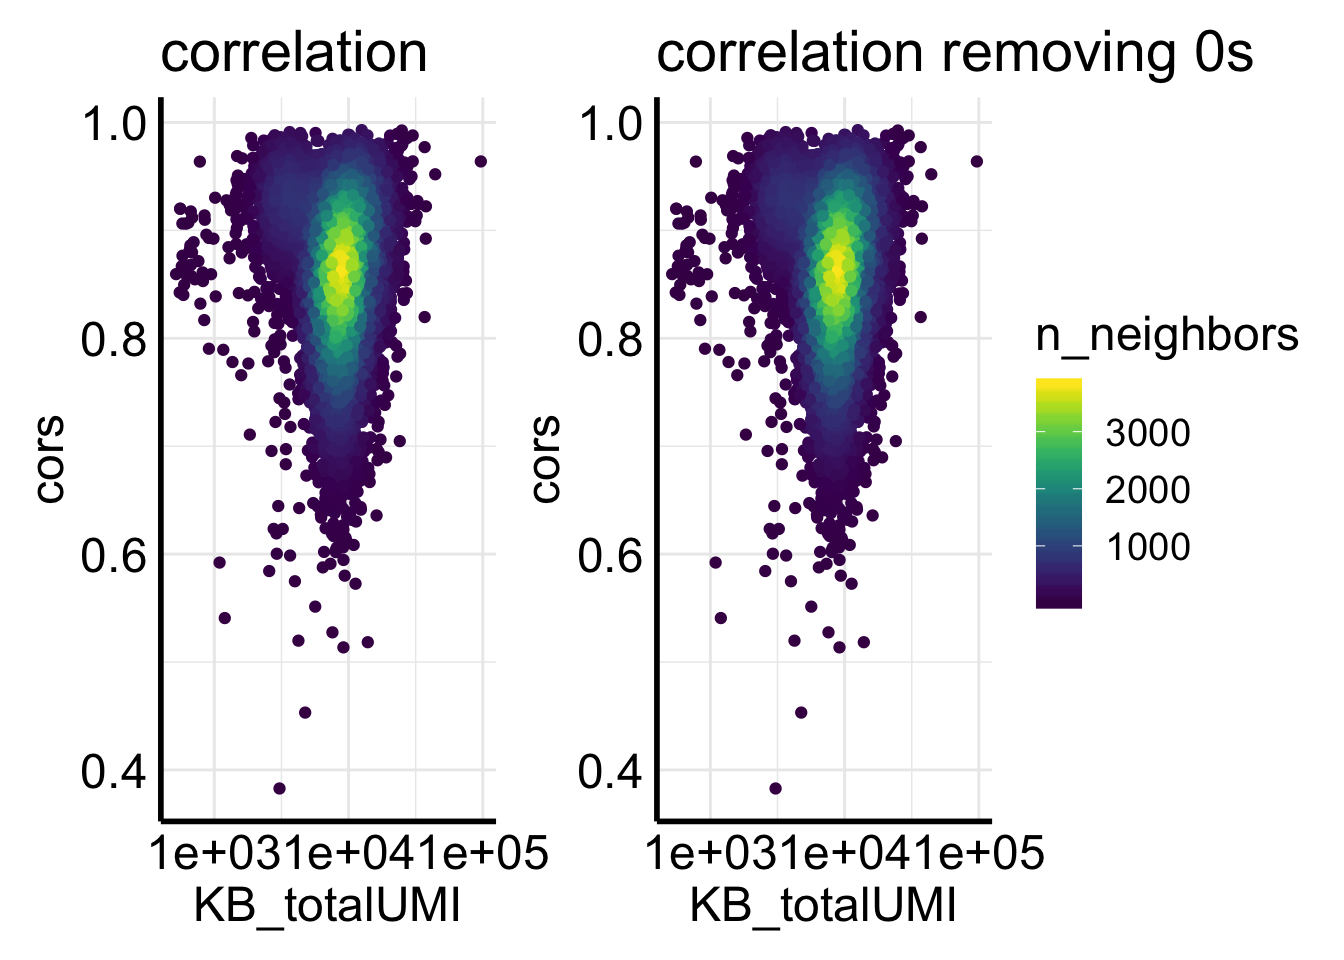
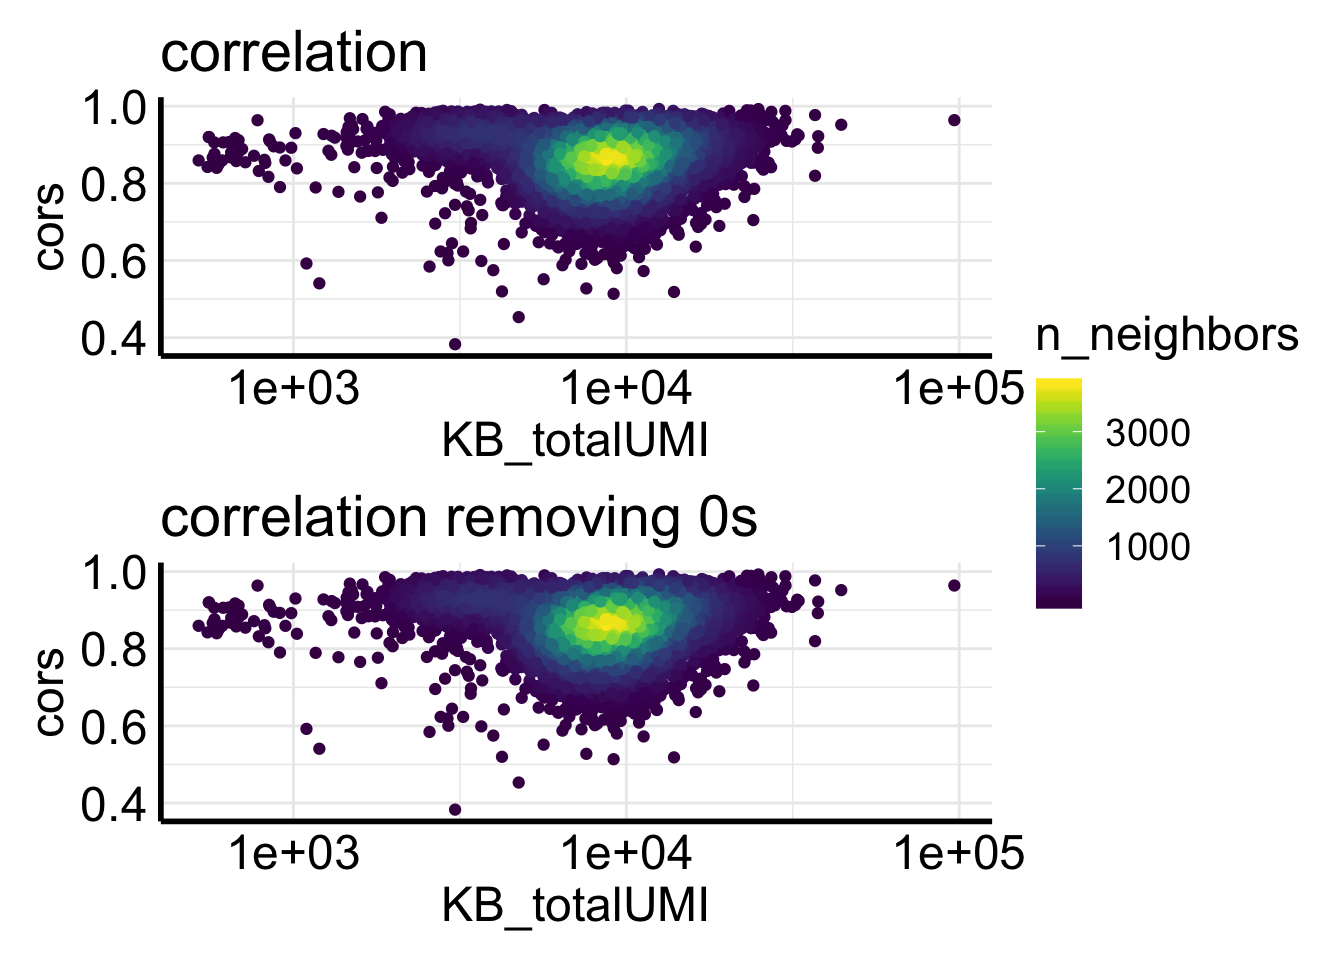
update post

diff --git a/public/post/compare-kallisto-bustools-and-cellranger-for-single-nuclei-seqencing-data/index.html b/public/post/compare-kallisto-bustools-and-cellranger-for-single-nuclei-seqencing-data/index.html
@@ -95,7 +95,7 @@ My next thought is: maybe the STAR aligner is doing something weird that exclude
   
   <meta property="og:site_name" content="DNA confesses Data speak">
   <meta property="og:url" content="/post/compare-kallisto-bustools-and-cellranger-for-single-nuclei-seqencing-data/">
-  <meta property="og:title" content="compare kallisto-bustools and cellranger for single nuclei seqencing data | DNA confesses Data speak">
+  <meta property="og:title" content="compare kallisto-bustools and cellranger for single nuclei sequencing data | DNA confesses Data speak">
   <meta property="og:description" content="In my last post, I tried to include transgenes to the cellranger reference and want to get the counts for the transgenes. However, even after I extended the Tdtomato and Cre with the potential 3’UTR, I still get very few cells express them. This is confusing to me.
 My next thought is: maybe the STAR aligner is doing something weird that excluded those reads? At this point, I want to give kb-python, a python wrapper on kallisto and bustools a try.">
   <meta property="og:locale" content="en-us">
@@ -108,7 +108,7 @@ My next thought is: maybe the STAR aligner is doing something weird that exclude
   
   
 
-  <title>compare kallisto-bustools and cellranger for single nuclei seqencing data | DNA confesses Data speak</title>
+  <title>compare kallisto-bustools and cellranger for single nuclei sequencing data | DNA confesses Data speak</title>
 
 </head>
 <body id="top" data-spy="scroll" data-target="#toc" data-offset="71" >
@@ -284,7 +284,7 @@ My next thought is: maybe the STAR aligner is doing something weird that exclude
 
 
   <div class="article-container">
-    <h1 itemprop="name">compare kallisto-bustools and cellranger for single nuclei seqencing data</h1>
+    <h1 itemprop="name">compare kallisto-bustools and cellranger for single nuclei sequencing data</h1>
 
     
 
@@ -339,7 +339,7 @@ My next thought is: maybe the STAR aligner is doing something weird that exclude
   <ul class="share">
     <li>
       <a class="twitter"
-         href="https://twitter.com/intent/tweet?text=compare%20kallisto-bustools%20and%20cellranger%20for%20single%20nuclei%20seqencing%20data&amp;url=%2fpost%2fcompare-kallisto-bustools-and-cellranger-for-single-nuclei-seqencing-data%2f"
+         href="https://twitter.com/intent/tweet?text=compare%20kallisto-bustools%20and%20cellranger%20for%20single%20nuclei%20sequencing%20data&amp;url=%2fpost%2fcompare-kallisto-bustools-and-cellranger-for-single-nuclei-seqencing-data%2f"
          target="_blank" rel="noopener">
         <i class="fa fa-twitter"></i>
       </a>
@@ -353,21 +353,21 @@ My next thought is: maybe the STAR aligner is doing something weird that exclude
     </li>
     <li>
       <a class="linkedin"
-         href="https://www.linkedin.com/shareArticle?mini=true&amp;url=%2fpost%2fcompare-kallisto-bustools-and-cellranger-for-single-nuclei-seqencing-data%2f&amp;title=compare%20kallisto-bustools%20and%20cellranger%20for%20single%20nuclei%20seqencing%20data"
+         href="https://www.linkedin.com/shareArticle?mini=true&amp;url=%2fpost%2fcompare-kallisto-bustools-and-cellranger-for-single-nuclei-seqencing-data%2f&amp;title=compare%20kallisto-bustools%20and%20cellranger%20for%20single%20nuclei%20sequencing%20data"
          target="_blank" rel="noopener">
         <i class="fa fa-linkedin"></i>
       </a>
     </li>
     <li>
       <a class="weibo"
-         href="http://service.weibo.com/share/share.php?url=%2fpost%2fcompare-kallisto-bustools-and-cellranger-for-single-nuclei-seqencing-data%2f&amp;title=compare%20kallisto-bustools%20and%20cellranger%20for%20single%20nuclei%20seqencing%20data"
+         href="http://service.weibo.com/share/share.php?url=%2fpost%2fcompare-kallisto-bustools-and-cellranger-for-single-nuclei-seqencing-data%2f&amp;title=compare%20kallisto-bustools%20and%20cellranger%20for%20single%20nuclei%20sequencing%20data"
          target="_blank" rel="noopener">
         <i class="fa fa-weibo"></i>
       </a>
     </li>
     <li>
       <a class="email"
-         href="mailto:?subject=compare%20kallisto-bustools%20and%20cellranger%20for%20single%20nuclei%20seqencing%20data&amp;body=%2fpost%2fcompare-kallisto-bustools-and-cellranger-for-single-nuclei-seqencing-data%2f">
+         href="mailto:?subject=compare%20kallisto-bustools%20and%20cellranger%20for%20single%20nuclei%20sequencing%20data&amp;body=%2fpost%2fcompare-kallisto-bustools-and-cellranger-for-single-nuclei-seqencing-data%2f">
         <i class="fa fa-envelope"></i>
       </a>
     </li>
@@ -774,7 +774,7 @@ p2&lt;- ggplot(df2, aes(x= KB_totalUMI, y = cors)) +
 #install.packages(&quot;patchwork&quot;)
 # use patchwork to combine the legends from multiple plots
 library(patchwork)
-p1 + p2 + plot_layout(guides = &quot;collect&quot;)</code></pre>
+p1 / p2 + plot_layout(guides = &quot;collect&quot;)</code></pre>
 <p><img src="/post/2020-02-21-compare-kallisto-bustools-and-cellranger-for-single-nuclei-seqencing-data_files/figure-html/unnamed-chunk-17-1.png" width="672" /></p>
 <p>I have not seen many posts comparing cellranger with <code>kallisto + bustools</code> for single nuclei data. I hope this post opens the discussion for the single-cell RNAseq community.</p>
 <ul>

diff --git a/content/post/2020-02-21-compare-kallisto-bustools-and-cellranger-for-single-nuclei-seqencing-data.html b/content/post/2020-02-21-compare-kallisto-bustools-and-cellranger-for-single-nuclei-seqencing-data.html
@@ -1,5 +1,5 @@
 ---
-title: compare kallisto-bustools and cellranger for single nuclei seqencing data
+title: compare kallisto-bustools and cellranger for single nuclei sequencing data
 author: Ming Tang
 date: '2020-02-21'
 slug: compare-kallisto-bustools-and-cellranger-for-single-nuclei-seqencing-data
@@ -409,7 +409,7 @@ p2&lt;- ggplot(df2, aes(x= KB_totalUMI, y = cors)) +
 #install.packages(&quot;patchwork&quot;)
 # use patchwork to combine the legends from multiple plots
 library(patchwork)
-p1 + p2 + plot_layout(guides = &quot;collect&quot;)</code></pre>
+p1 / p2 + plot_layout(guides = &quot;collect&quot;)</code></pre>
 <p><img src="/post/2020-02-21-compare-kallisto-bustools-and-cellranger-for-single-nuclei-seqencing-data_files/figure-html/unnamed-chunk-17-1.png" width="672" /></p>
 <p>I have not seen many posts comparing cellranger with <code>kallisto + bustools</code> for single nuclei data. I hope this post opens the discussion for the single-cell RNAseq community.</p>
 <ul>

diff --git a/public/categories/bioinformatics/index.html b/public/categories/bioinformatics/index.html
@@ -284,7 +284,7 @@
   
   
   <div>
-    <h2><a href="/post/compare-kallisto-bustools-and-cellranger-for-single-nuclei-seqencing-data/">compare kallisto-bustools and cellranger for single nuclei seqencing data</a></h2>
+    <h2><a href="/post/compare-kallisto-bustools-and-cellranger-for-single-nuclei-seqencing-data/">compare kallisto-bustools and cellranger for single nuclei sequencing data</a></h2>
     <div class="article-style">
       
       In my last post, I tried to include transgenes to the cellranger reference and want to get the counts for the transgenes. However, even after I extended the Tdtomato and Cre with the potential 3’UTR, I still get very few cells express them. This is confusing to me.

diff --git a/public/categories/r/index.html b/public/categories/r/index.html
@@ -284,7 +284,7 @@
   
   
   <div>
-    <h2><a href="/post/compare-kallisto-bustools-and-cellranger-for-single-nuclei-seqencing-data/">compare kallisto-bustools and cellranger for single nuclei seqencing data</a></h2>
+    <h2><a href="/post/compare-kallisto-bustools-and-cellranger-for-single-nuclei-seqencing-data/">compare kallisto-bustools and cellranger for single nuclei sequencing data</a></h2>
     <div class="article-style">
       
       In my last post, I tried to include transgenes to the cellranger reference and want to get the counts for the transgenes. However, even after I extended the Tdtomato and Cre with the potential 3’UTR, I still get very few cells express them. This is confusing to me.

diff --git a/public/categories/scrnaseq/index.html b/public/categories/scrnaseq/index.html
@@ -284,7 +284,7 @@
   
   
   <div>
-    <h2><a href="/post/compare-kallisto-bustools-and-cellranger-for-single-nuclei-seqencing-data/">compare kallisto-bustools and cellranger for single nuclei seqencing data</a></h2>
+    <h2><a href="/post/compare-kallisto-bustools-and-cellranger-for-single-nuclei-seqencing-data/">compare kallisto-bustools and cellranger for single nuclei sequencing data</a></h2>
     <div class="article-style">
       
       In my last post, I tried to include transgenes to the cellranger reference and want to get the counts for the transgenes. However, even after I extended the Tdtomato and Cre with the potential 3’UTR, I still get very few cells express them. This is confusing to me.

diff --git a/public/tags/scrnaseq/index.html b/public/tags/scrnaseq/index.html
@@ -284,7 +284,7 @@
   
   
   <div>
-    <h2><a href="/post/compare-kallisto-bustools-and-cellranger-for-single-nuclei-seqencing-data/">compare kallisto-bustools and cellranger for single nuclei seqencing data</a></h2>
+    <h2><a href="/post/compare-kallisto-bustools-and-cellranger-for-single-nuclei-seqencing-data/">compare kallisto-bustools and cellranger for single nuclei sequencing data</a></h2>
     <div class="article-style">
       
       In my last post, I tried to include transgenes to the cellranger reference and want to get the counts for the transgenes. However, even after I extended the Tdtomato and Cre with the potential 3’UTR, I still get very few cells express them. This is confusing to me.

diff --git a/public/index.html b/public/index.html
@@ -1436,7 +1436,7 @@
 
 <div class="pub-list-item" itemscope itemprop="blogPost" itemtype="http://schema.org/BlogPosting">
   <i class="fa fa-newspaper-o pub-icon" aria-hidden="true"></i>
-  <a href="/post/compare-kallisto-bustools-and-cellranger-for-single-nuclei-seqencing-data/" itemprop="url"><span itemprop="headline">compare kallisto-bustools and cellranger for single nuclei seqencing data</span></a>
+  <a href="/post/compare-kallisto-bustools-and-cellranger-for-single-nuclei-seqencing-data/" itemprop="url"><span itemprop="headline">compare kallisto-bustools and cellranger for single nuclei sequencing data</span></a>
 </div>
 
         

diff --git a/public/post/index.html b/public/post/index.html
@@ -280,7 +280,7 @@
 
 <div class="pub-list-item" itemscope itemprop="blogPost" itemtype="http://schema.org/BlogPosting">
   <i class="fa fa-newspaper-o pub-icon" aria-hidden="true"></i>
-  <a href="/post/compare-kallisto-bustools-and-cellranger-for-single-nuclei-seqencing-data/" itemprop="url"><span itemprop="headline">compare kallisto-bustools and cellranger for single nuclei seqencing data</span></a>
+  <a href="/post/compare-kallisto-bustools-and-cellranger-for-single-nuclei-seqencing-data/" itemprop="url"><span itemprop="headline">compare kallisto-bustools and cellranger for single nuclei sequencing data</span></a>
 </div>
 
     

diff --git a/public/post/cellranger-mk-reference-with-transgenes/index.html b/public/post/cellranger-mk-reference-with-transgenes/index.html
@@ -577,7 +577,7 @@ FALSE  TRUE
   
   <div class="post-nav-item">
     <div class="meta-nav">Next</div>
-    <a href="/post/compare-kallisto-bustools-and-cellranger-for-single-nuclei-seqencing-data/" rel="next">compare kallisto-bustools and cellranger for single nuclei seqencing data</a>
+    <a href="/post/compare-kallisto-bustools-and-cellranger-for-single-nuclei-seqencing-data/" rel="next">compare kallisto-bustools and cellranger for single nuclei sequencing data</a>
   </div>
   
   

diff --git a/public/404.html b/public/404.html
@@ -279,7 +279,7 @@
   <h2>Posts</h2>
   
   <ul>
-    <li><a href="/post/compare-kallisto-bustools-and-cellranger-for-single-nuclei-seqencing-data/">compare kallisto-bustools and cellranger for single nuclei seqencing data</a></li>
+    <li><a href="/post/compare-kallisto-bustools-and-cellranger-for-single-nuclei-seqencing-data/">compare kallisto-bustools and cellranger for single nuclei sequencing data</a></li>
   </ul>
   
   <ul>
